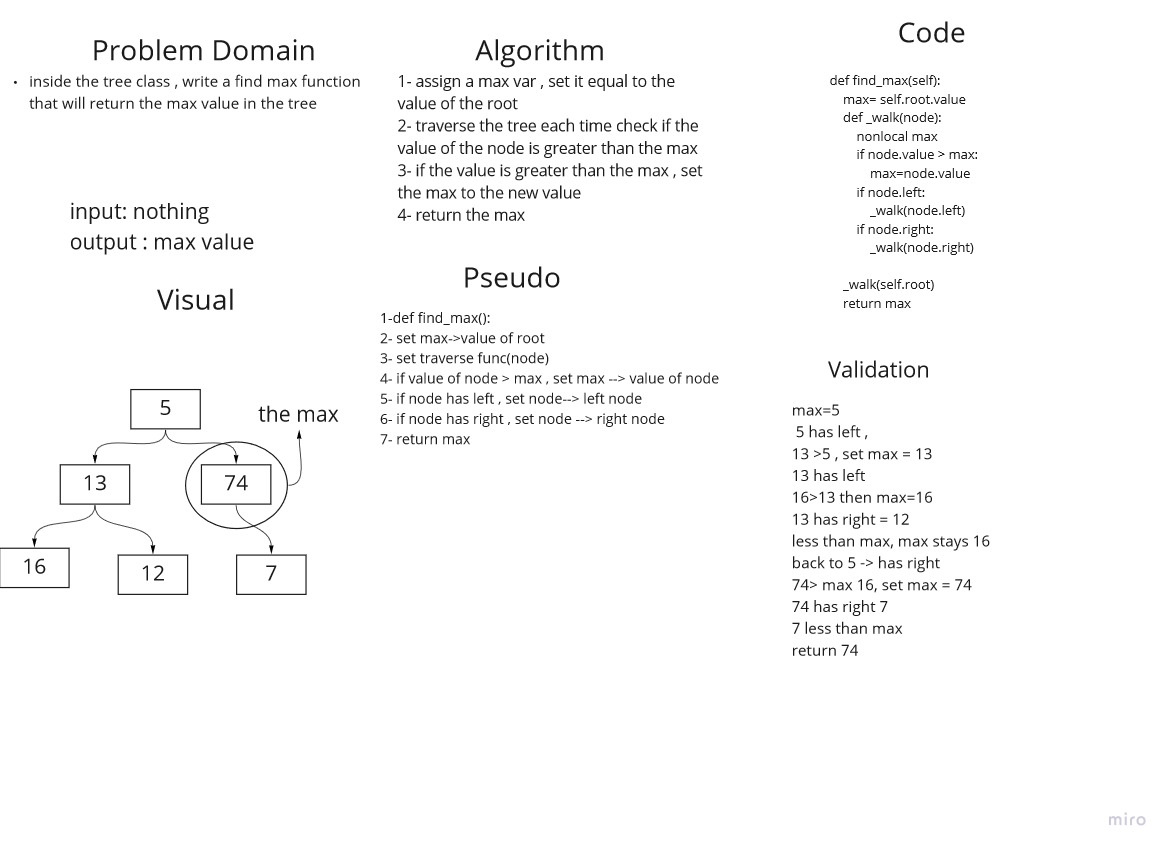
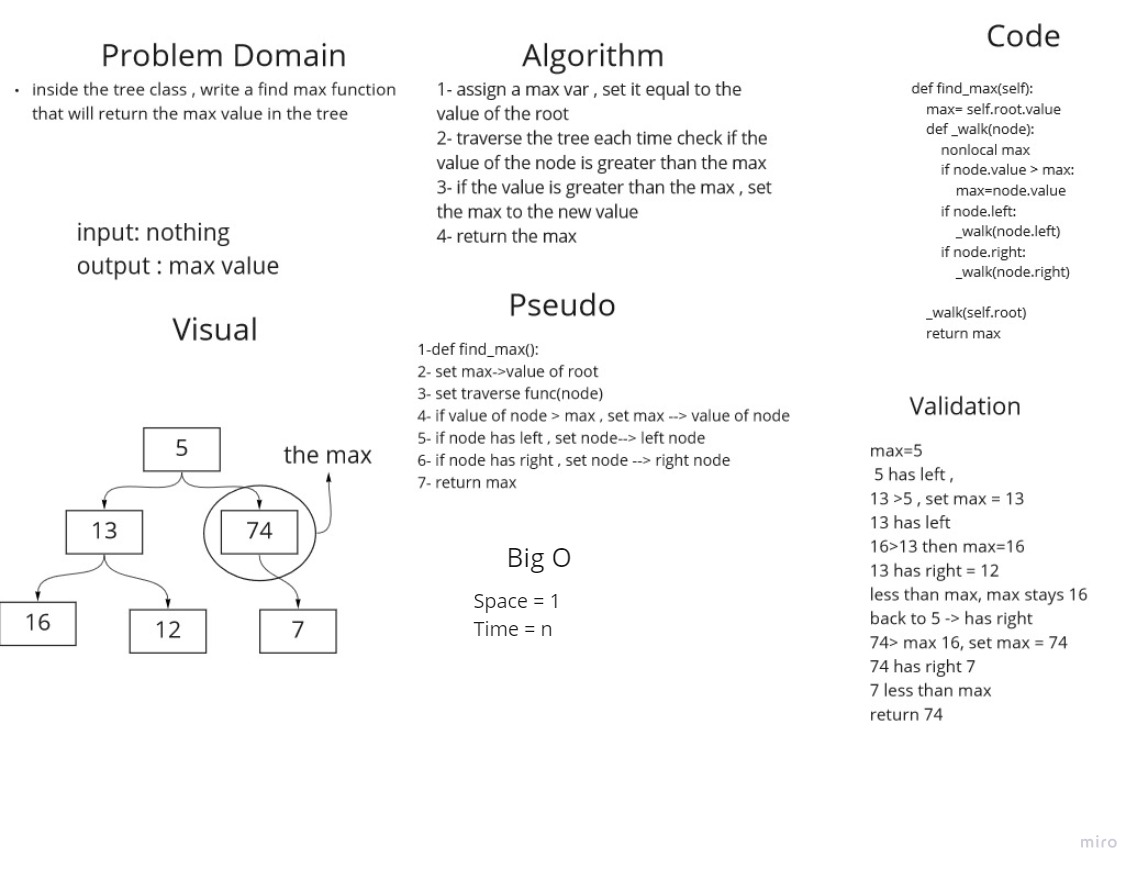
max_fix

diff --git a/data_structures_and_algorithms/trees.py b/data_structures_and_algorithms/trees.py
@@ -63,19 +63,20 @@ class BinaryTree:
         return arr
     
 
-    def find_max(self):
-        max= self.root.value
-        def _walk(node):
-            nonlocal max
-            if node.value > max:
-                max=node.value
-            if node.left:
-                _walk(node.left)
-            if node.right:
-                _walk(node.right)
 
-        _walk(self.root)
-        return max
+def find_max(root):
+    max= root.value
+    def _walk(node):
+        nonlocal max
+        if node.value > max:
+            max=node.value
+        if node.left:
+            _walk(node.left)
+        if node.right:
+            _walk(node.right)
+
+    _walk(root)
+    return max
 
 
 
@@ -134,15 +135,15 @@ if __name__== "__main__":
     tree = BinaryTree()
     tree.root = node1
     #tree.pre_order()
-    print(tree.find_max())
+    print(find_max(node1))
     #tree.in_order()
     #print(tree.post_order())
-    bin= BinarySearchTree()
+"""    bin= BinarySearchTree()
     bin.add(10)
     bin.add(7)
     bin.add(3)
     bin.add(5)
-    bin.add(13)
+    bin.add(13)"""
     #print(bin.post_order())
 
     #print(bin.contains(6))

diff --git a/data_structures_and_algorithms/find_max.md b/data_structures_and_algorithms/find_max.md
@@ -13,3 +13,11 @@ we need to create a function to find the max value in a tree:
 
 ## Approach & Efficiency
 we created the function, we assigned a max var = root.value , then we traversed through the tree compearing every node.value with the max, if the value>max, set max to the new value .
+
+## Solution
+we created a function tthat acceptece a node as an arguemtn , in side the fucntion we assighen a variable max to be equal to the value of the root, the function has inner iterator that will traverce throgh the nodes inside the tree and check each time if the value of a node is greater than the max, and it will reassign the max to be equal to that value . and will return the max value 
+
+
+## BigO
+Time = n
+space = 1
